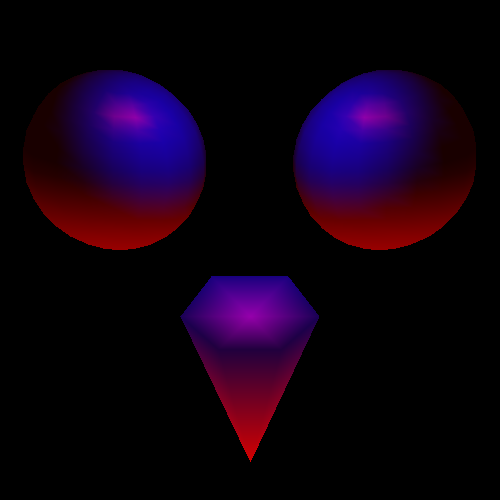
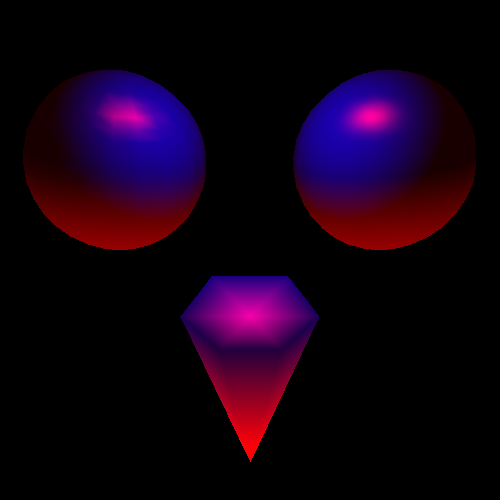
pixel shader

diff --git a/main.cpp b/main.cpp
@@ -14,18 +14,21 @@ int main() {
 
     Rasterizer rasterizer(new PngBuffer(BUFFER_WIDTH, BUFFER_HEIGHT, BG_COLOR));
 
-    std::unique_ptr<VertexLightShader> shader = std::make_unique<VertexLightShader>();
+    std::unique_ptr<VertexLightShader> vertexShader = std::make_unique<VertexLightShader>();
+    std::unique_ptr<SimpleShader> simpleShader = std::make_unique<SimpleShader>();
 
     // AMBIENT LIGHT
-    shader->setAmbientLight(AmbientLight{Vector3{1.f, 0.f, 0.f}, 0.1f});
+    vertexShader->setAmbientLight(AmbientLight{Vector3{1.f, 0.f, 0.f}, 0.1f});
+    simpleShader->setAmbientLight(AmbientLight{Vector3{1.f, 0.f, 0.f}, 0.1f});
     
     // DIRECTIONAL LIGHT
     DirectionalLight directionalLight;
     directionalLight.direction = Vector3{0, -1, 0};
     directionalLight.lightColor = Vector3{1.f, 0.f, 0.f};
     directionalLight.diffuseStrength = 0.5f;
-    directionalLight.specularStrength = 0.5f;
-    shader->setDirectionalLight(directionalLight);
+    directionalLight.specularStrength = 0.9f;
+    vertexShader->setDirectionalLight(directionalLight);
+    simpleShader->setDirectionalLight(directionalLight);
 
     // POINT LIGHT
     PointLight pointLight;
@@ -33,31 +36,35 @@ int main() {
     pointLight.lightColor = Vector3{0.f, 0.f, 1.f};
     pointLight.diffuseStrength = 0.7f;
     pointLight.specularStrength = 0.0f;
-    shader->addPointLight(pointLight);
+    vertexShader->addPointLight(pointLight);
+    simpleShader->addPointLight(pointLight);
 
-    shader->setProjection(Matrix4::Perspective(ToRad(60.f), 1.f, 0.01f, 100.f));
-    shader->setView(Matrix4::LookAt(Vector3{0.f, 0.f, 5.f}, Vector3{0.f, 0.f, 0.f}, Vector3{0.f, 1.f, 0.f}));
+    vertexShader->setProjection(Matrix4::Perspective(ToRad(60.f), 1.f, 0.01f, 100.f));
+    vertexShader->setView(Matrix4::LookAt(Vector3{0.f, 0.f, 5.f}, Vector3{0.f, 0.f, 0.f}, Vector3{0.f, 1.f, 0.f}));
+    
+    simpleShader->setProjection(Matrix4::Perspective(ToRad(60.f), 1.f, 0.01f, 100.f));
+    simpleShader->setView(Matrix4::LookAt(Vector3{0.f, 0.f, 5.f}, Vector3{0.f, 0.f, 0.f}, Vector3{0.f, 1.f, 0.f}));
 
     Matrix4 model = Matrix4{1};
 
     SphereMesh sphereMesh(16);
     model = Matrix4::Translation(-1.5f, -1.f, 0.f) *
             Matrix4::Scale(1.f, 1.f, 1.f);
-    shader->setModel(model);
-    rasterizer.render(&sphereMesh, shader.get());
+    vertexShader->setModel(model);
+    rasterizer.render(&sphereMesh, vertexShader.get());
     
     SphereMesh sphereMesh2(16);
     model = Matrix4::Translation(1.5f, -1.f, 0.f) *
             Matrix4::Scale(1.f, 1.f, 1.f);
-    shader->setModel(model);
-    rasterizer.render(&sphereMesh2, shader.get());
+    simpleShader->setModel(model);
+    rasterizer.render(&sphereMesh2, simpleShader.get());
 
     ConeMesh coneMesh(1.f, 2.f, 6);
     model = Matrix4::Translation(0.f, 1.5f, 0.f) *
             Matrix4::RotationX(ToRad(45.f)) *
             Matrix4::Scale(0.9f, 0.9f, 0.9f);
-    shader->setModel(model);
-    rasterizer.render(&coneMesh, shader.get());
+    vertexShader->setModel(model);
+    rasterizer.render(&coneMesh, vertexShader.get());
 
     rasterizer.saveToFile();
 

diff --git a/src/shader/SimpleShader.cpp b/src/shader/SimpleShader.cpp
@@ -12,3 +12,33 @@ void SimpleShader::vertexShader(Triangle& triangle) const {
     triangle.applyTransform(modelToProjection);
     triangle.applyTransformToNormal(invModel);
 }
+
+void SimpleShader::pixelShader(
+    const Vector3& interpolatedPosition,
+    const Vector3& interpolatedNormal,
+    const Vector3& interpolatedColor,
+    Vector3& outColor) const {
+
+        const Vector3 ambientColor = ambientLight.color * ambientLight.strength;
+
+        Vector3 lightColor;
+
+        auto calculateLight = [&] (const Light* light, const Vector3 lightDir) {
+            const Vector3 diffuse = Sat(interpolatedNormal.dot(lightDir)) * light->diffuseStrength * light->lightColor;
+            const Vector3 reflect = Reflect(-lightDir, interpolatedNormal);
+            const Vector3 viewDir = (viewPos - interpolatedPosition).normalize();
+            const float specularStrength = std::pow(std::max(Vector3::dot(viewDir, reflect), 0.f), 12);
+            const Vector3 specular = specularStrength * light->specularStrength * light->lightColor;
+            lightColor += (diffuse + specular);
+        };
+
+        const Vector3 lightDir = -directionalLight.direction;
+        calculateLight(&directionalLight, lightDir);
+
+        for (const PointLight& pointLight : pointLights) {
+            const Vector3 lightDir = (pointLight.position - interpolatedPosition).normalize();
+            calculateLight(&pointLight, lightDir);
+        }
+
+        outColor = (ambientColor + lightColor).clamp_0_1();
+}

diff --git a/src/Rasterizer.cpp b/src/Rasterizer.cpp
@@ -111,10 +111,17 @@ void Rasterizer::colorTriangle(const Vector3& p, const Triangle& t, const Shader
 
     if(currentDepth < screenDepth) {
 
-        Vector3 finalColor = t.colorA * barU + t.colorB  * barV + t.colorC * barW;
-        uint32_t finalColorHex = Color::FromVector(finalColor).hex;
+        Vector3 pixelColor{0.f};
 
-        buffer->setPixel(p.x, p.y, finalColorHex);
+        Vector3 interpolizedPos = t.A * barU + t.B  * barV + t.C * barW;
+        Vector3 interpolizedNor = (t.norA * barU + t.norB  * barV + t.norC * barW).normalize();
+        Vector3 interpolizedColor = t.colorA * barU + t.colorB  * barV + t.colorC * barW;
+
+        shader->pixelShader(interpolizedPos, interpolizedNor, interpolizedColor, pixelColor);
+
+        uint32_t pixelColorHex = Color::FromVector(pixelColor).hex;
+
+        buffer->setPixel(p.x, p.y, pixelColorHex);
         buffer->setDepth(p.x, p.y, currentDepth);
     }
 }

diff --git a/include/shader/VertexLightShader.hpp b/include/shader/VertexLightShader.hpp
@@ -7,6 +7,12 @@ class VertexLightShader : public Shader{
     public:
         void preProcess() override;
         void vertexShader(Triangle& triangle) const override;
+        virtual void pixelShader(
+            const Vector3& interpolatedPosition,
+            const Vector3& interpolatedNormal,
+            const Vector3& interpolatedColor,
+            Vector3& outColor) const override;
+
         void setModel(const Matrix4& newModel) { model = newModel; preProcess(); }
         void setView(const Matrix4& newView) { view = newView; preProcess(); }
         void setProjection(const Matrix4& newProjection) { projection = newProjection; preProcess(); }

diff --git a/include/shader/SimpleShader.hpp b/include/shader/SimpleShader.hpp
@@ -7,6 +7,12 @@ class SimpleShader : public Shader {
     public:
         void preProcess() override;
         void vertexShader(Triangle& triangle) const override;
+        virtual void pixelShader(
+            const Vector3& interpolatedPosition,
+            const Vector3& interpolatedNormal,
+            const Vector3& interpolatedColor,
+            Vector3& outColor) const override;
+
         void setModel(const Matrix4& newModel) { model = newModel; preProcess(); }
         void setView(const Matrix4& newView) { view = newView; preProcess(); }
         void setProjection(const Matrix4& newProjection) { projection = newProjection; preProcess(); }

diff --git a/src/shader/VertexLightShader.cpp b/src/shader/VertexLightShader.cpp
@@ -43,3 +43,15 @@ void VertexLightShader::vertexShader(Triangle& triangle) const {
     calculateColor(triangle.B, triangle.norB, triangle.colorB);
     calculateColor(triangle.C, triangle.norC, triangle.colorC);
 }
+
+void VertexLightShader::pixelShader(
+    const Vector3& interpolatedPosition,
+    const Vector3& interpolatedNormal,
+    const Vector3& interpolatedColor,
+    Vector3& outColor) const {
+    
+    // SHADING DONE IN VERTEXES, RETURNING INTERPOLATED COLOR
+
+    outColor = interpolatedColor;
+
+}

diff --git a/include/Vector3.hpp b/include/Vector3.hpp
@@ -133,6 +133,17 @@ public:
         return Vector3(x, y, z);
     }
 
+    Vector3& operator=(Vector3 const& another) {
+        if (this == &another) {
+            return *this;
+        }
+
+        this->x = another.x;
+        this->y = another.y;
+        this->z = another.z;
+        return *this;
+    }
+
     friend std::ostream& operator<<(std::ostream& os, const Vector3& vec) {
         os << "[" << vec.x << ", " << vec.y << ", " << vec.z << "]";
         return os;

diff --git a/include/shader/Shader.hpp b/include/shader/Shader.hpp
@@ -19,4 +19,9 @@ class Shader {
     public:
         virtual void preProcess() = 0;
         virtual void vertexShader(Triangle& triangle) const = 0;
+        virtual void pixelShader(
+                const Vector3& interpolatedPosition,
+                const Vector3& interpolatedNormal,
+                const Vector3& interpolatedColor,
+                Vector3& outColor) const = 0;
 };
